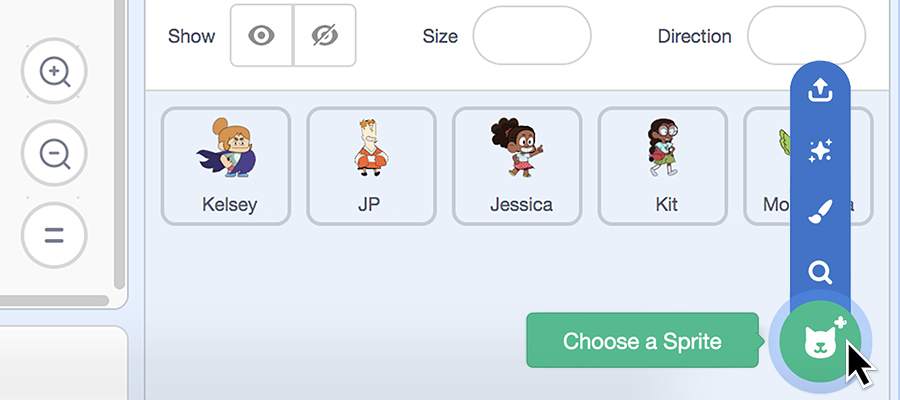
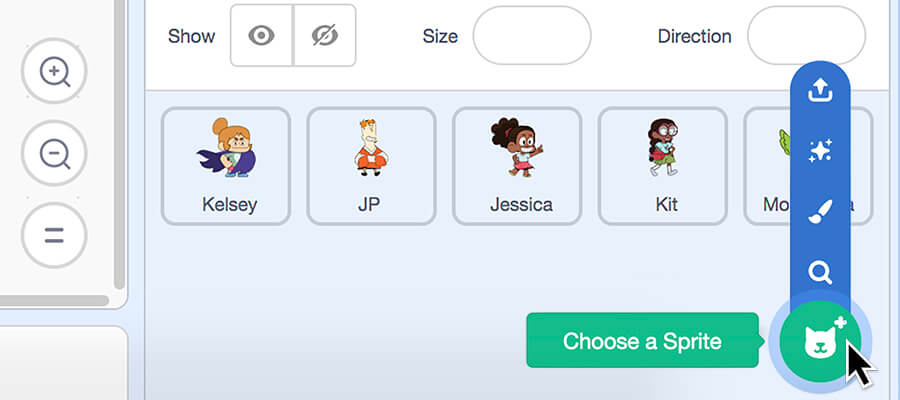
Optimized images and made small tweaks to GIFs

diff --git a/packages/scratch-gui/src/lib/libraries/decks/index.jsx b/packages/scratch-gui/src/lib/libraries/decks/index.jsx
@@ -46,7 +46,7 @@ import libraryPong from './thumbnails/pong.jpg';
 import libraryImagine from './thumbnails/imagine.jpg';
 
 // Code a Cartoon
-import libraryCodeCartoon from './thumbnails/code-a-cartoon.jpg'
+import libraryCodeCartoon from './thumbnails/code-a-cartoon.jpg';
 
 // Videos
 import recordASound from './thumbnails/record-a-sound.jpg';
@@ -102,125 +102,125 @@ export default {
     },
     
     'code-cartoon': {
-    name: (
-        <FormattedMessage
-            defaultMessage="Code a Cartoon"
-            description="Name for the 'Code a Cartoon' how-to"
-            id="gui.howtos.code-cartoon"
-        />
-    ),
-    tags: ['code-cartoon'],
-//    requiredProjectId: '331474033',
-    img: libraryCodeCartoon,
-    steps: [{
+        name: (
+            <FormattedMessage
+                defaultMessage="Code a Cartoon"
+                description="Name for the 'Code a Cartoon' how-to"
+                id="gui.howtos.code-cartoon"
+            />
+        ),
+        tags: ['code-cartoon'],
+        requiredProjectId: '331474033',
+        img: libraryCodeCartoon,
+        steps: [{
             video: 'code-cartoon'
         }, {
-        title: (
-            <FormattedMessage
-                defaultMessage="Say Something When You Click the Green Flag"
-                description="Step name for 'Say Something When You Click the Green Flag' step"
-                id="gui.howtos.code-cartoon.step_codeCartoonSaySomething"
-            />
-        ),
-        image: 'codeCartoonSaySomething'
-    }, {
-        title: (
-            <FormattedMessage
-                defaultMessage="Animate a Character When You Click It"
-                description="Step name for 'Animate a Character When You Click It' step"
-                id="gui.howtos.code-cartoon.step_codeCartoonAnimate"
-            />
-        ),
-        image: 'codeCartoonAnimate'
-    }, {
-        title: (
-            <FormattedMessage
-                defaultMessage="Select a Different Character"
-                description="Step name for 'Select a Different Character' step"
-                id="gui.howtos.code-cartoon.step_codeCartoonSelectDifferentCharacter"
-            />
-        ),
-        image: 'codeCartoonSelectDifferentCharacter'
-    }, {
-        title: (
-            <FormattedMessage
-                defaultMessage="Use a Minus Sign to Get Smaller"
-                description="Step name for 'Use a Minus Sign to Get Smaller' step"
-                id="gui.howtos.code-cartoon.step_codeCartoonUseMinusSign"
-            />
-        ),
-        image: 'codeCartoonUseMinusSign'
-    }, {
-        title: (
-            <FormattedMessage
-                defaultMessage="Make a Character Grow and Shrink"
-                description="Step name for 'Make a Character Grow and Shrink' step"
-                id="gui.howtos.code-cartoon.step_codeCartoonGrowShrink"
-            />
-        ),
-        image: 'codeCartoonGrowShrink'
-    }, {
-        title: (
-            <FormattedMessage
-                defaultMessage="Select a Different Character"
-                description="Step name for 'Select a Different Character' step"
-                id="gui.howtos.code-cartoon.step_codeCartoonSelectAnotherDifferentCharacter"
-            />
-        ),
-        image: 'codeCartoonSelectAnotherDifferentCharacter'
-    }, {
-        title: (
-            <FormattedMessage
-                defaultMessage="Jump Up and Down"
-                description="Step name for 'Jump Up and Down' step"
-                id="gui.howtos.code-cartoon.step_codeCartoonJump"
-            />
-        ),
-        image: 'codeCartoonJump'
-    }, {
-        title: (
-            <FormattedMessage
-                defaultMessage="Click a Character to Change Scenes"
-                description="Step name for 'Click a Character to Change Scenes' step"
-                id="gui.howtos.code-cartoon.step_codeCartoonChangeScenes"
-            />
-        ),
-        image: 'codeCartoonChangeScenes'
-    }, {
-        title: (
-            <FormattedMessage
-                defaultMessage="Glide Around"
-                description="Step name for 'Glide Around' step"
-                id="gui.howtos.code-cartoon.step_codeCartoonGlideAround"
-            />
-        ),
-        image: 'codeCartoonGlideAround'
-    }, {
-        title: (
-            <FormattedMessage
-                defaultMessage="Change Costumes"
-                description="Step name for 'Change Costumes' step"
-                id="gui.howtos.code-cartoon.step_codeCartoonChangeCostumes"
-            />
-        ),
-        image: 'codeCartoonChangeCostumes'
-    }, {
-        title: (
-            <FormattedMessage
-                defaultMessage="Choose More Characters to Add to Your Cartoon"
-                description="Step name for 'Choose More Characters to Add to Your Cartoon' step"
-                id="gui.howtos.code-cartoon.step_codeCartoonChooseMoreCharacters"
-            />
-        ),
-        image: 'codeCartoonChooseMoreCharacters'
-    }, {
-        deckIds: [
-            'Chase-Game',
-            'Tell-A-Story'
-        ]
-    }
-    ],
-    urlId: 'code-cartoon'
+            title: (
+                <FormattedMessage
+                    defaultMessage="Say Something When You Click the Green Flag"
+                    description="Step name for 'Say Something When You Click the Green Flag' step"
+                    id="gui.howtos.code-cartoon.step_codeCartoonSaySomething"
+                />
+            ),
+            image: 'codeCartoonSaySomething'
+        }, {
+            title: (
+                <FormattedMessage
+                    defaultMessage="Animate a Character When You Click It"
+                    description="Step name for 'Animate a Character When You Click It' step"
+                    id="gui.howtos.code-cartoon.step_codeCartoonAnimate"
+                />
+            ),
+            image: 'codeCartoonAnimate'
+        }, {
+            title: (
+                <FormattedMessage
+                    defaultMessage="Select a Different Character"
+                    description="Step name for 'Select a Different Character' step"
+                    id="gui.howtos.code-cartoon.step_codeCartoonSelectDifferentCharacter"
+                />
+            ),
+            image: 'codeCartoonSelectDifferentCharacter'
+        }, {
+            title: (
+                <FormattedMessage
+                    defaultMessage="Use a Minus Sign to Get Smaller"
+                    description="Step name for 'Use a Minus Sign to Get Smaller' step"
+                    id="gui.howtos.code-cartoon.step_codeCartoonUseMinusSign"
+                />
+            ),
+            image: 'codeCartoonUseMinusSign'
+        }, {
+            title: (
+                <FormattedMessage
+                    defaultMessage="Make a Character Grow and Shrink"
+                    description="Step name for 'Make a Character Grow and Shrink' step"
+                    id="gui.howtos.code-cartoon.step_codeCartoonGrowShrink"
+                />
+            ),
+            image: 'codeCartoonGrowShrink'
+        }, {
+            title: (
+                <FormattedMessage
+                    defaultMessage="Select a Different Character"
+                    description="Step name for 'Select a Different Character' step"
+                    id="gui.howtos.code-cartoon.step_codeCartoonSelectAnotherDifferentCharacter"
+                />
+            ),
+            image: 'codeCartoonSelectAnotherDifferentCharacter'
+        }, {
+            title: (
+                <FormattedMessage
+                    defaultMessage="Jump Up and Down"
+                    description="Step name for 'Jump Up and Down' step"
+                    id="gui.howtos.code-cartoon.step_codeCartoonJump"
+                />
+            ),
+            image: 'codeCartoonJump'
+        }, {
+            title: (
+                <FormattedMessage
+                    defaultMessage="Click a Character to Change Scenes"
+                    description="Step name for 'Click a Character to Change Scenes' step"
+                    id="gui.howtos.code-cartoon.step_codeCartoonChangeScenes"
+                />
+            ),
+            image: 'codeCartoonChangeScenes'
+        }, {
+            title: (
+                <FormattedMessage
+                    defaultMessage="Glide Around"
+                    description="Step name for 'Glide Around' step"
+                    id="gui.howtos.code-cartoon.step_codeCartoonGlideAround"
+                />
+            ),
+            image: 'codeCartoonGlideAround'
+        }, {
+            title: (
+                <FormattedMessage
+                    defaultMessage="Change Costumes"
+                    description="Step name for 'Change Costumes' step"
+                    id="gui.howtos.code-cartoon.step_codeCartoonChangeCostumes"
+                />
+            ),
+            image: 'codeCartoonChangeCostumes'
+        }, {
+            title: (
+                <FormattedMessage
+                    defaultMessage="Choose More Characters to Add to Your Cartoon"
+                    description="Step name for 'Choose More Characters to Add to Your Cartoon' step"
+                    id="gui.howtos.code-cartoon.step_codeCartoonChooseMoreCharacters"
+                />
+            ),
+            image: 'codeCartoonChooseMoreCharacters'
+        }, {
+            deckIds: [
+                'Chase-Game',
+                'Tell-A-Story'
+            ]
+        }
+        ],
+        urlId: 'code-cartoon'
     },
     
     'animate-a-name': {
